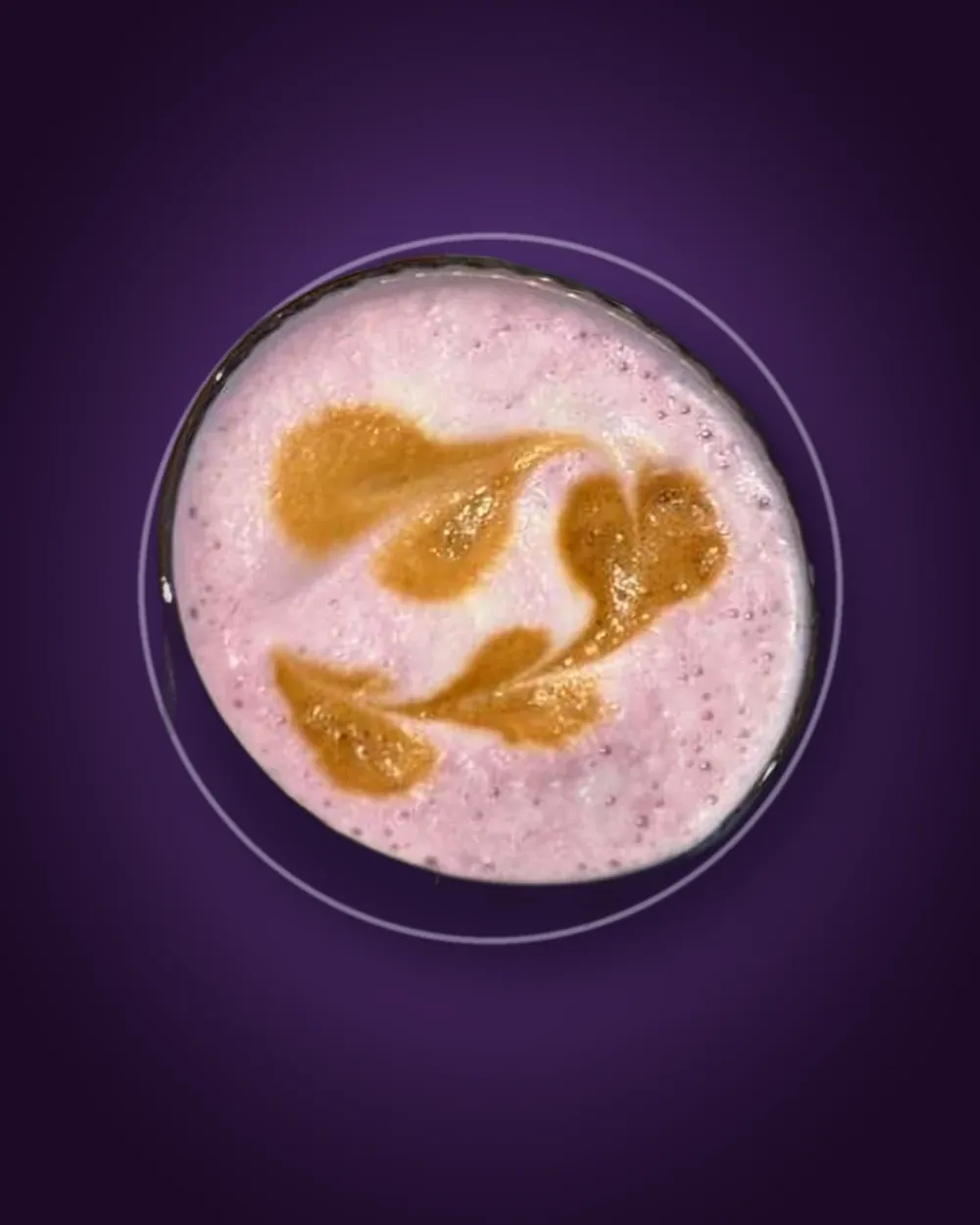
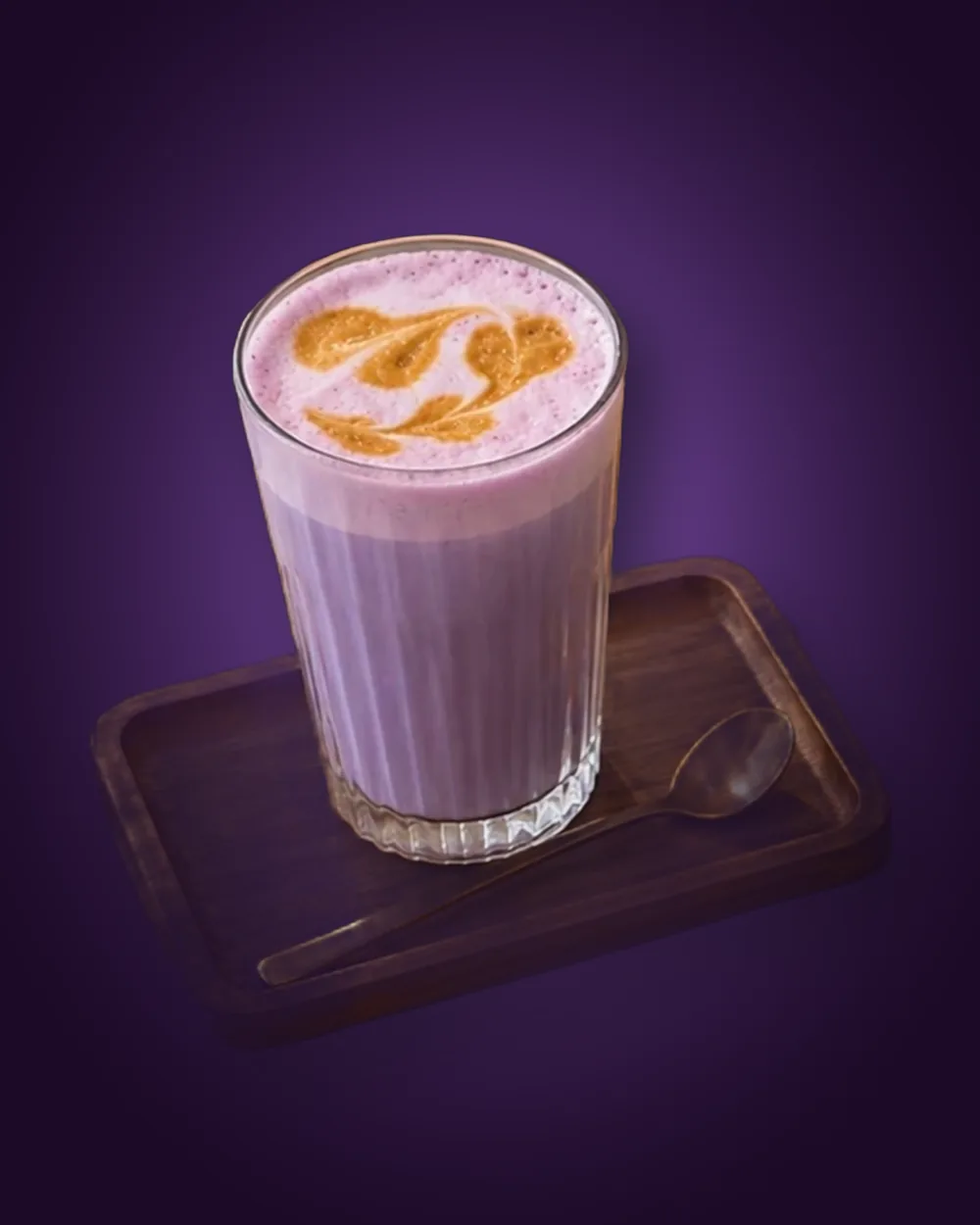
Ube als nyd-Highlight eingeleitet, Knolle und Latte als Bild, echte Erdbeeren, Brötchen, Scroll-Pfeil, Amazonas-Bild größer

diff --git a/nyd.html b/nyd.html
@@ -11,8 +11,8 @@
 <link rel="preload" href="assets/fonts/bricolage.woff2" as="font" type="font/woff2" crossorigin>
 <link rel="preload" href="assets/fonts/hanken.woff2" as="font" type="font/woff2" crossorigin>
 <link rel="preload" as="image" href="assets/img/nyd/hero-room-1800.webp" imagesrcset="assets/img/nyd/hero-room-900.webp 900w, assets/img/nyd/hero-room-1800.webp 1800w" imagesizes="100vw" fetchpriority="high">
-<link rel="stylesheet" href="css/base.css?v=20261119104114">
-<link rel="stylesheet" href="css/nyd.css?v=20261119104114">
+<link rel="stylesheet" href="css/base.css?v=20261119111254">
+<link rel="stylesheet" href="css/nyd.css?v=20261119111254">
 </head>
 <body data-world="nyd">
 <header class="wbar">
@@ -90,14 +90,14 @@
   <section class="ube" id="ube">
     <canvas id="fluid" aria-hidden="true"></canvas>
     <div class="ube-head">
-      <p class="kicker reveal">Das lila Highlight</p>
+      <p class="ube-pre reveal">Das Highlight im Café nyd ist lila. Es heißt:</p>
       <h2 class="split big"><span class="line">Ube.</span></h2>
-      <p class="ube-intro reveal">Sprich: „u-be“. Eine lila Knolle von den Philippinen und der Star auf unserer Karte. Woher kommt sie, warum ist sie so lila und wie schmeckt sie? In vier Schritten bis ins Glas.</p>
+      <p class="ube-intro reveal">Sprich: „u-be“. Daraus machen wir den Ube Vanille Latte, nach dem in Osnabrück alle fragen. Aber was ist Ube eigentlich? Eine lila Knolle von den Philippinen. In vier Schritten von der Erde bis ins Glas.</p>
     </div>
     <ol class="ube-steps">
-      <li class="ube-step reveal"><figure><img src="assets/img/ube/ube-pulver.webp" alt="Lila Ube-Pulver in Nahaufnahme" width="1000" height="1500" loading="lazy" decoding="async"><figcaption>Getrocknet und gemahlen: Ube-Pulver</figcaption></figure><div><span>01</span><h3>Eine Knolle.</h3><p>Ube ist die lila Yamswurzel, botanisch <i>Dioscorea alata</i>. Keine Süßkartoffel und kein Taro, sondern eine eigene Pflanze. Ihre Knolle wächst unter der Erde und ist innen tief violett.</p></div></li>
+      <li class="ube-step reveal"><figure><img class="knolle" src="assets/img/ube/ube-knolle.webp" alt="Lila Yamswurzel (Ube) in der Erde, mit lila Trieb" width="1100" height="947" loading="lazy" decoding="async"><figcaption>Ube-Knolle in der Erde, Mindanao (Philippinen)</figcaption></figure><div><span>01</span><h3>Eine Knolle.</h3><p>Ube ist die lila Yamswurzel, botanisch <i>Dioscorea alata</i>. Keine Süßkartoffel und kein Taro, sondern eine eigene Pflanze. Ihre Knolle wächst unter der Erde und ist innen tief violett.</p></div></li>
       <li class="ube-step reveal"><figure><img src="assets/img/ube/ube-eis.webp" alt="Lila Eis auf einem Löffel" width="1800" height="1200" loading="lazy" decoding="async"><figcaption>Lila Eis: so kennt man Ube auf den Philippinen</figcaption></figure><div><span>02</span><h3>Von den Philippinen.</h3><p>Ihre Heimat ist Südostasien, vor allem die Philippinen. Dort gehört Ube seit Generationen in Eis, Cremes und Gebäck. Von dort kam sie in die Cafés der Welt.</p></div></li>
-      <li class="ube-step reveal"><figure><img src="assets/img/ube/ube-latte.webp" alt="Ube Vanille Latte aus dem Café nyd, von oben" width="1000" height="1250" loading="lazy" decoding="async"><figcaption>Ube Vanille Latte im Café nyd</figcaption></figure><div><span>03</span><h3>Natürlich lila.</h3><p>Das Lila stammt von Anthocyanen. Das sind dieselben Pflanzenfarbstoffe wie in Heidelbeeren. Keine Farbe aus der Tube, sondern aus der Knolle selbst. Mit Milch aufgeschäumt wird daraus ein zartes Flieder.</p></div></li>
+      <li class="ube-step reveal"><figure><img src="assets/img/ube/ube-latte.webp" alt="Ube Vanille Latte aus dem Café nyd im Glas" width="1000" height="1250" loading="lazy" decoding="async"><figcaption>Ube Vanille Latte im Café nyd</figcaption></figure><div><span>03</span><h3>Natürlich lila.</h3><p>Das Lila stammt von Anthocyanen. Das sind dieselben Pflanzenfarbstoffe wie in Heidelbeeren. Keine Farbe aus der Tube, sondern aus der Knolle selbst. Mit Milch aufgeschäumt wird daraus ein zartes Flieder.</p></div></li>
       <li class="ube-step reveal"><figure><img src="assets/img/ube/ube-dessert.webp" alt="Pfannkuchen mit lila Creme und Nüssen" width="1000" height="1500" loading="lazy" decoding="async"><figcaption>Nussig und mild süß</figcaption></figure><div><span>04</span><h3>Nussig, ein bisschen Vanille.</h3><p>Ube schmeckt mild süß, nussig und erinnert an Vanille. Darum passt sie so gut zu Milch, Kaffee und Kuchen.</p></div></li>
     </ol>
     <div class="ube-star">
@@ -140,10 +140,10 @@
 
 <footer class="foot">
   <p><b>Inoffizieller Entwurf</b> von Leon Oßendorf für die Genussmanufaktur GmbH &amp; Co. KG. Nicht öffentlich, nicht von Suchmaschinen erfasst.</p>
-  <p>Fotos: Café nyd. Cappuccino im Sitzplatz-Foto eingesetzt (Bildmontage für den Entwurf). Ube-Bilder: Monaz Hastam, Alexander Grey, Eiliv Aceron (Unsplash, Beispielbilder). Holzmaserung: <a href="https://polyhaven.com/" target="_blank" rel="noopener">Poly Haven</a> (CC0). <a href="https://www.frooters.de/impressum/" target="_blank" rel="noopener">Impressum der Genussmanufaktur</a></p>
+  <p>Fotos: Café nyd. Cappuccino im Sitzplatz-Foto eingesetzt (Bildmontage für den Entwurf). Ube-Knolle: Obsidian Soul, <a href="https://commons.wikimedia.org/wiki/File:Dioscorea_alata_-_Purple_yam_tuber_-_Mindanao,_Philippines.jpg" target="_blank" rel="noopener">Wikimedia Commons</a>, <a href="https://creativecommons.org/licenses/by-sa/3.0/" target="_blank" rel="noopener">CC BY-SA 3.0</a>. Ube-Eis und Ube-Dessert: Alexander Grey, Eiliv Aceron (Unsplash, Beispielbilder). Holzmaserung: <a href="https://polyhaven.com/" target="_blank" rel="noopener">Poly Haven</a> (CC0). <a href="https://www.frooters.de/impressum/" target="_blank" rel="noopener">Impressum der Genussmanufaktur</a></p>
 </footer>
 <div class="flag">Inoffizieller Entwurf · nicht öffentlich</div>
-<script type="module" src="js/cafe.js?v=20261119104114"></script>
-<script>window.STAND="20261119104114";fetch("stand.txt?"+Date.now(),{cache:"no-store"}).then(r=>r.ok?r.text():null).then(s=>{s=s&&s.trim();if(s&&s!==window.STAND&&!sessionStorage.getItem("st"+s)){sessionStorage.setItem("st"+s,"1");location.reload();}}).catch(()=>{});</script>
+<script type="module" src="js/cafe.js?v=20261119111254"></script>
+<script>window.STAND="20261119111254";fetch("stand.txt?"+Date.now(),{cache:"no-store"}).then(r=>r.ok?r.text():null).then(s=>{s=s&&s.trim();if(s&&s!==window.STAND&&!sessionStorage.getItem("st"+s)){sessionStorage.setItem("st"+s,"1");location.reload();}}).catch(()=>{});</script>
 </body>
 </html>

diff --git a/js/fruit.js b/js/fruit.js
@@ -20,16 +20,42 @@ export function createFruitWorld(canvas, { mobile = false, rec = false, vertical
   const bodies = [], waiting = [];
   const rnd = (a, b) => a + Math.random() * (b - a);
   const P = (c, o = {}) => new THREE.MeshPhysicalMaterial({ color: c, roughness: o.r ?? .35, clearcoat: o.cc ?? .5, clearcoatRoughness: .3, sheen: o.sh ?? 0, sheenColor: new THREE.Color(o.shc ?? '#fff') });
+  // Erdbeere: Herzform, glänzend rot, zur Schulter hin heller, eingesunkene gelbe Nüsschen, grüner Kelch mit Blättern
+  const SB = (() => {
+    const N = 40, pts = [];
+    const R = t => .46 * Math.pow(Math.sin(Math.min(1, t * 1.08) * Math.PI * .5), .62) * (1 - .55 * Math.pow(Math.max(0, t - .86) / .14, 2));
+    for (let i = 0; i <= N; i++) { const t = i / N; pts.push(new THREE.Vector2(Math.max(.0005, R(t)), t * 1.02)); }
+    const geo = new THREE.LatheGeometry(pts, 40), pos = geo.attributes.position, col = [], c = new THREE.Color();
+    const red = new THREE.Color('#a80a18'), hi = new THREE.Color('#d8222a'), sh = new THREE.Color('#e45a3c');
+    const seedsAt = []; const NS = 70;
+    for (let i = 0; i < NS; i++) { const t = .07 + .8 * (i + .5) / NS, a = i * 2.39996; seedsAt.push([t, a]); }
+    for (let i = 0; i < pos.count; i++) {
+      const y = pos.getY(i), t = y / 1.02, x = pos.getX(i), z = pos.getZ(i), a = Math.atan2(z, x);
+      // Dellen um jedes Nüsschen
+      let dent = 0; for (const [st, sa] of seedsAt) { const dt = (t - st) * 6, da = Math.atan2(Math.sin(a - sa), Math.cos(a - sa)) * R(st) * 1.1; const d2 = (dt * dt + da * da * 36) ; if (d2 < .5) dent = Math.max(dent, 1 - d2 / .5); }
+      const r = Math.hypot(x, z), k = r > 1e-4 ? (r - dent * .018) / r : 1; pos.setX(i, x * k); pos.setZ(i, z * k);
+      c.copy(red).lerp(hi, Math.min(1, Math.max(0, (t - .5) / .35)) * .6); if (t > .9) c.lerp(sh, Math.min(1, (t - .9) / .1) * .45); c.multiplyScalar(1 - dent * .25); col.push(c.r, c.g, c.b);
+    }
+    geo.setAttribute('color', new THREE.Float32BufferAttribute(col, 3)); geo.computeVertexNormals();
+    const body = new THREE.MeshPhysicalMaterial({ vertexColors: true, roughness: .26, clearcoat: 1, clearcoatRoughness: .12, sheen: .2, sheenColor: new THREE.Color('#ff9a8a') });
+    const seedGeo = new THREE.SphereGeometry(1, 8, 6); seedGeo.scale(.013, .022, .013);
+    const seedMat = new THREE.MeshStandardMaterial({ color: '#c99a2e', roughness: .55 });
+    const leaf = new THREE.Shape(); leaf.moveTo(0, 0); leaf.quadraticCurveTo(.1, .16, 0, .38); leaf.quadraticCurveTo(-.1, .16, 0, 0);
+    const leafGeo = new THREE.ShapeGeometry(leaf, 6), leafMat = new THREE.MeshStandardMaterial({ color: '#2f7420', roughness: .6, side: THREE.DoubleSide });
+    return { geo, body, seedGeo, seedMat, seedsAt, R, leafGeo, leafMat };
+  })();
   const strawberry = () => {
-    const pts = []; for (let i = 0; i <= 16; i++) { const t = i / 16; pts.push(new THREE.Vector2(Math.sin(t * Math.PI) * (0.36 + .12 * (1 - t)), t * .9)); }
-    const g = new THREE.Group(); g.add(new THREE.Mesh(new THREE.LatheGeometry(pts, 28), P('#c80f28', { r: .28, cc: .7 })));
-    const seeds = new THREE.InstancedMesh(new THREE.SphereGeometry(.022, 6, 4), P('#f0cf55'), 50), m4 = new THREE.Matrix4();
-    for (let i = 0; i < 50; i++) { const t = .1 + Math.random() * .85, a = Math.random() * 6.28, rr = Math.sin(t * Math.PI) * (0.36 + .12 * (1 - t)); m4.setPosition(Math.cos(a) * rr, t * .9, Math.sin(a) * rr); seeds.setMatrixAt(i, m4); } g.add(seeds);
-    const leaf = new THREE.Mesh(new THREE.ConeGeometry(.34, .12, 8), P('#3d8a28', { r: .6, cc: 0 })); leaf.position.y = .92; g.add(leaf);
+    const g = new THREE.Group(); g.add(new THREE.Mesh(SB.geo, SB.body));
+    const seeds = new THREE.InstancedMesh(SB.seedGeo, SB.seedMat, SB.seedsAt.length), m4 = new THREE.Matrix4(), q = new THREE.Quaternion(), up = new THREE.Vector3(0, 1, 0), n = new THREE.Vector3(), one = new THREE.Vector3(1, 1, 1);
+    SB.seedsAt.forEach(([t, a], i) => { const r = SB.R(t) - .016, p = new THREE.Vector3(Math.cos(a) * r, t * 1.02, Math.sin(a) * r); n.set(Math.cos(a), .35, Math.sin(a)).normalize(); q.setFromUnitVectors(up, n); m4.compose(p, q, one); seeds.setMatrixAt(i, m4); });
+    g.add(seeds);
+    const cal = new THREE.Group(); cal.position.y = .99;
+    for (let i = 0; i < 10; i++) { const l = new THREE.Mesh(SB.leafGeo, SB.leafMat); const piv = new THREE.Group(); piv.rotation.y = i / 10 * Math.PI * 2 + Math.random() * .3; l.rotation.x = -Math.PI / 2 + .18 + Math.random() * .2; piv.add(l); cal.add(piv); }
+    const stem = new THREE.Mesh(new THREE.CylinderGeometry(.022, .03, .14, 6), SB.leafMat); stem.position.y = .07; cal.add(stem); g.add(cal);
     g.rotation.z = Math.PI / 2; const o = new THREE.Group(); o.add(g); return o;
   };
-  const blue = () => new THREE.Mesh(new THREE.SphereGeometry(.5, 20, 14), P('#2b3266', { r: .3, sh: .9, shc: '#c9d2ff' }));
-  const rasp = () => { const g = new THREE.Group(), geo = new THREE.SphereGeometry(.17, 10, 8), mat = P('#d4305a', { r: .25, cc: .6 }); for (let i = 0; i < 22; i++) { const a = i * 2.4, t = i / 22, rr = Math.sin(t * Math.PI * .9 + .2) * .4; const s = new THREE.Mesh(geo, mat); s.position.set(Math.cos(a) * rr, t * .8 - .4, Math.sin(a) * rr); g.add(s); } return g; };
+  const blue = () => new THREE.Mesh(new THREE.SphereGeometry(.5, 20, 14), P('#1c2148', { r: .42, cc: .25, sh: .45, shc: '#8f9bd8' }));
+  const rasp = () => { const g = new THREE.Group(), geo = new THREE.SphereGeometry(.17, 10, 8), mat = P('#c01f45', { r: .3, cc: .6 }); for (let i = 0; i < 22; i++) { const a = i * 2.4, t = i / 22, rr = Math.sin(t * Math.PI * .9 + .2) * .4; const s = new THREE.Mesh(geo, mat); s.position.set(Math.cos(a) * rr, t * .8 - .4, Math.sin(a) * rr); g.add(s); } return g; };
   // [Art, Durchmesser bei 1000 px Thekenbreite, Anzahl Computer, Anzahl Handy]
   const SET = { food_pomegranate_01: [112, 3, 2], food_apple_01: [100, 5, 3], food_pears_asian_01: [102, 3, 2], food_kiwi_01: [78, 5, 3], lemon: [88, 3, 2], food_lime_01: [74, 4, 2], food_lychee_01: [52, 5, 3], strawberry: [64, 9, 6], rasp: [40, 7, 4], blue: [27, 14, 8] };
 

diff --git a/picknick.html b/picknick.html
@@ -11,8 +11,8 @@
 <link rel="preload" href="assets/fonts/bricolage.woff2" as="font" type="font/woff2" crossorigin>
 <link rel="preload" href="assets/fonts/hanken.woff2" as="font" type="font/woff2" crossorigin>
 <link rel="preload" as="image" href="assets/img/pn-logo-hell.webp" fetchpriority="high">
-<link rel="stylesheet" href="css/base.css?v=20261119104114">
-<link rel="stylesheet" href="css/picknick.css?v=20261119104114">
+<link rel="stylesheet" href="css/base.css?v=20261119111254">
+<link rel="stylesheet" href="css/picknick.css?v=20261119111254">
 </head>
 <body data-world="picknick">
 <svg width="0" height="0" style="position:absolute" aria-hidden="true"><defs><filter id="boil"><feTurbulence id="turb" type="fractalNoise" baseFrequency="0.018" numOctaves="2" seed="1"/><feDisplacementMap in="SourceGraphic" scale="4"/></filter></defs></svg>
@@ -47,7 +47,7 @@
       <svg class="pick-scene" id="pickScene" viewBox="0 0 1000 700" aria-hidden="true">
         <g filter="url(#boil)" fill="none" stroke="#2c4a28" stroke-width="5" stroke-linecap="round" stroke-linejoin="round">
           <g class="pi" data-tx="140" data-ty="250"><g transform="translate(-100 -100)"><path fill="#fffdf6" d="M60 60 L140 60 L128 180 L72 180 Z"/><path fill="#c8102e" stroke="#2c4a28" d="M52 46 L148 46 L144 62 L56 62 Z"/><path d="M68 100 L132 100 M73 145 L127 145 M88 34 C82 20 96 14 90 0 M112 34 C106 20 120 14 114 0"/></g></g>
-          <g class="pi" data-tx="850" data-ty="270"><g transform="translate(-100 -100)"><path fill="#e9c08a" d="M30 132 L170 132 C170 152 160 158 100 158 C40 158 30 152 30 132 Z"/><path fill="#f5c84b" d="M26 122 L174 122 L172 132 L134 132 L126 146 L118 132 L64 132 L57 143 L50 132 L28 132 Z"/><path fill="#e0443b" d="M30 112 L170 112 L168 123 L32 123 Z"/><path fill="#8fc46a" d="M22 104 C38 94 50 114 66 104 C82 94 94 114 110 104 C126 94 138 114 154 104 C164 98 174 106 180 104 L176 114 L24 114 Z"/><path fill="#e9c08a" d="M30 100 C30 52 170 52 170 100 Z"/><path d="M64 72 l6 -4 M96 64 l6 -3 M128 70 l6 -4 M84 84 l6 -3 M114 82 l6 -4"/></g></g>
+          <g class="pi" data-tx="850" data-ty="270"><g transform="translate(-100 -100)"><path fill="#e6b06a" d="M8 132 L192 132 C190 150 172 158 100 158 C28 158 10 150 8 132 Z"/><path fill="#f2c84e" d="M14 124 L186 124 L184 133 L150 133 L142 146 L134 133 L70 133 L62 143 L54 133 L16 133 Z"/><path fill="#ee9a9a" d="M10 116 L190 116 L188 126 C160 134 40 134 12 126 Z"/><path fill="#8fc46a" d="M4 110 C16 101 26 118 40 109 C54 100 64 118 78 109 C92 100 102 118 116 109 C130 100 140 118 154 109 C168 100 178 116 196 108 L192 119 L8 119 Z"/><path fill="#e6b06a" d="M10 110 C12 76 52 62 100 62 C148 62 188 76 190 110 Z"/><path d="M48 84 C56 76 66 72 74 72 M88 76 C96 68 106 66 114 66 M128 78 C136 72 146 70 154 72"/></g></g>
           <g class="pi" data-tx="250" data-ty="480"><g transform="translate(-100 -100)"><path fill="#c98a4b" d="M100 168 C35 168 14 106 44 76 C70 50 100 70 100 102 C100 70 130 50 156 76 C186 106 165 168 100 168 Z"/><path d="M100 102 C92 132 72 152 56 152 M100 102 C108 132 128 152 144 152 M70 90 l2 2 M130 92 l2 2 M100 150 l2 2"/></g></g>
           <g class="pi" data-tx="930" data-ty="440"><g transform="translate(-100 -100)"><path fill="#f2c27a" d="M100 172 C40 132 20 102 30 72 C40 42 80 42 100 72 C120 42 160 42 170 72 C180 102 160 132 100 172 Z"/><path d="M58 62 L148 146 M42 88 L126 164 M84 50 L164 116 M144 62 L56 148 M160 88 L78 164 M118 50 L38 118"/></g></g>
           <g class="pi" data-tx="780" data-ty="640"><g transform="translate(-100 -100)"><path fill="#fff3d8" d="M28 152 L172 152 L172 112 L28 70 Z"/><path fill="#f1b5b9" d="M28 70 L172 112 L172 124 L28 84 Z"/><path d="M28 104 L172 140"/><circle cx="150" cy="96" r="10" fill="#c8102e"/></g></g>
@@ -60,6 +60,7 @@
         <p>Kaffee, belegte Brötchen, Laugengebäck, frische Waffeln, Kuchen und handgemachtes Eis. Genau das, was man beim Einkaufen braucht.</p>
         <ul class="pins"><li><b>Designer Outlet</b><span>Ochtrup</span></li><li><b>Modehaus Becker</b><span>Gifhorn</span></li></ul>
       </div>
+      <div class="scroll-cue" aria-hidden="true"><span>Scrollen</span><i></i><i></i></div>
       <img class="wanderer" id="wanderer" src="assets/img/pn-wanderer-gruen.webp" width="374" height="492" alt="" aria-hidden="true">
     </div>
   </section>
@@ -77,7 +78,7 @@
   <p>Pick-Nick-Logo aus einem Foto der Filiale freigestellt. Zeichnungen: eigener Entwurf. <a href="https://www.frooters.de/impressum/" target="_blank" rel="noopener">Impressum der Genussmanufaktur</a></p>
 </footer>
 <div class="flag">Inoffizieller Entwurf · nicht öffentlich</div>
-<script type="module" src="js/picknick.js?v=20261119104114"></script>
-<script>window.STAND="20261119104114";fetch("stand.txt?"+Date.now(),{cache:"no-store"}).then(r=>r.ok?r.text():null).then(s=>{s=s&&s.trim();if(s&&s!==window.STAND&&!sessionStorage.getItem("st"+s)){sessionStorage.setItem("st"+s,"1");location.reload();}}).catch(()=>{});</script>
+<script type="module" src="js/picknick.js?v=20261119111254"></script>
+<script>window.STAND="20261119111254";fetch("stand.txt?"+Date.now(),{cache:"no-store"}).then(r=>r.ok?r.text():null).then(s=>{s=s&&s.trim();if(s&&s!==window.STAND&&!sessionStorage.getItem("st"+s)){sessionStorage.setItem("st"+s,"1");location.reload();}}).catch(()=>{});</script>
 </body>
 </html>

diff --git a/bowlers.html b/bowlers.html
@@ -11,8 +11,8 @@
 <link rel="preload" href="assets/fonts/bricolage.woff2" as="font" type="font/woff2" crossorigin>
 <link rel="preload" href="assets/fonts/hanken.woff2" as="font" type="font/woff2" crossorigin>
 <link rel="preload" as="image" href="assets/img/bowlers/poster.webp" fetchpriority="high">
-<link rel="stylesheet" href="css/base.css?v=20261119104114">
-<link rel="stylesheet" href="css/bowlers.css?v=20261119104114">
+<link rel="stylesheet" href="css/base.css?v=20261119111254">
+<link rel="stylesheet" href="css/bowlers.css?v=20261119111254">
 <script type="importmap">{ "imports": { "three": "./assets/vendor/three.module.min.js", "three/addons/": "./assets/vendor/addons/" } }</script>
 <link rel="modulepreload" href="assets/vendor/three.module.min.js">
 </head>
@@ -90,7 +90,7 @@
   <p>Regenwald als Rundumbild: <a href="https://polyhaven.com/a/rainforest_trail" target="_blank" rel="noopener">Poly Haven</a> (CC0). Açaí-Bilder: Kawê Rodrigues, Fluss: Rohit Tandon (Unsplash, Beispielbilder). Bowl: Foto aus dem Café nyd. <a href="https://www.frooters.de/impressum/" target="_blank" rel="noopener">Impressum der Genussmanufaktur</a></p>
 </footer>
 <div class="flag">Inoffizieller Entwurf · nicht öffentlich</div>
-<script type="module" src="js/bowlers.js?v=20261119104114"></script>
-<script>window.STAND="20261119104114";fetch("stand.txt?"+Date.now(),{cache:"no-store"}).then(r=>r.ok?r.text():null).then(s=>{s=s&&s.trim();if(s&&s!==window.STAND&&!sessionStorage.getItem("st"+s)){sessionStorage.setItem("st"+s,"1");location.reload();}}).catch(()=>{});</script>
+<script type="module" src="js/bowlers.js?v=20261119111254"></script>
+<script>window.STAND="20261119111254";fetch("stand.txt?"+Date.now(),{cache:"no-store"}).then(r=>r.ok?r.text():null).then(s=>{s=s&&s.trim();if(s&&s!==window.STAND&&!sessionStorage.getItem("st"+s)){sessionStorage.setItem("st"+s,"1");location.reload();}}).catch(()=>{});</script>
 </body>
 </html>

diff --git a/frooters.html b/frooters.html
@@ -11,8 +11,8 @@
 <link rel="preload" href="assets/fonts/bricolage.woff2" as="font" type="font/woff2" crossorigin>
 <link rel="preload" href="assets/fonts/hanken.woff2" as="font" type="font/woff2" crossorigin>
 <link rel="preload" href="assets/img/frooters/theke/schiefer-band.webp" as="image">
-<link rel="stylesheet" href="css/base.css?v=20261119104114">
-<link rel="stylesheet" href="css/frooters.css?v=20261119104114">
+<link rel="stylesheet" href="css/base.css?v=20261119111254">
+<link rel="stylesheet" href="css/frooters.css?v=20261119111254">
 <script type="importmap">{ "imports": { "three": "./assets/vendor/three.module.min.js", "three/addons/": "./assets/vendor/addons/" } }</script>
 <link rel="modulepreload" href="assets/vendor/three.module.min.js">
 </head>
@@ -115,7 +115,7 @@
   <p>Fotos und Logo: Frooters (frooters.de). Bubble Waffle aus einem Frooters-Foto freigestellt. Obst in 3D: <a href="https://polyhaven.com/" target="_blank" rel="noopener">Poly Haven</a> (CC0). <a href="https://www.frooters.de/impressum/" target="_blank" rel="noopener">Impressum der Genussmanufaktur</a></p>
 </footer>
 <div class="flag">Inoffizieller Entwurf · nicht öffentlich</div>
-<script type="module" src="js/frooters.js?v=20261119104114"></script>
-<script>window.STAND="20261119104114";fetch("stand.txt?"+Date.now(),{cache:"no-store"}).then(r=>r.ok?r.text():null).then(s=>{s=s&&s.trim();if(s&&s!==window.STAND&&!sessionStorage.getItem("st"+s)){sessionStorage.setItem("st"+s,"1");location.reload();}}).catch(()=>{});</script>
+<script type="module" src="js/frooters.js?v=20261119111254"></script>
+<script>window.STAND="20261119111254";fetch("stand.txt?"+Date.now(),{cache:"no-store"}).then(r=>r.ok?r.text():null).then(s=>{s=s&&s.trim();if(s&&s!==window.STAND&&!sessionStorage.getItem("st"+s)){sessionStorage.setItem("st"+s,"1");location.reload();}}).catch(()=>{});</script>
 </body>
 </html>

diff --git a/index.html b/index.html
@@ -10,8 +10,8 @@
 <link rel="icon" href="favicon.svg" type="image/svg+xml">
 <link rel="preload" href="assets/fonts/bricolage.woff2" as="font" type="font/woff2" crossorigin>
 <link rel="preload" href="assets/fonts/hanken.woff2" as="font" type="font/woff2" crossorigin>
-<link rel="stylesheet" href="css/base.css?v=20261119104114">
-<link rel="stylesheet" href="css/home.css?v=20261119104114">
+<link rel="stylesheet" href="css/base.css?v=20261119111254">
+<link rel="stylesheet" href="css/home.css?v=20261119111254">
 </head>
 <body data-world="haus">
 <div id="cur" aria-hidden="true"><span>Eintreten</span></div>
@@ -118,7 +118,7 @@
   <p>Fotos: Frooters und Café nyd. Pick-Nick-Logo aus einem Foto der Filiale freigestellt. Regenwald-Rundumbild und Obstmodelle: <a href="https://polyhaven.com/" target="_blank" rel="noopener">Poly Haven</a> (CC0). <a href="https://www.frooters.de/impressum/" target="_blank" rel="noopener">Impressum der Genussmanufaktur</a></p>
 </footer>
 <div class="flag">Inoffizieller Entwurf · nicht öffentlich</div>
-<script type="module" src="js/home.js?v=20261119104114"></script>
-<script>window.STAND="20261119104114";fetch("stand.txt?"+Date.now(),{cache:"no-store"}).then(r=>r.ok?r.text():null).then(s=>{s=s&&s.trim();if(s&&s!==window.STAND&&!sessionStorage.getItem("st"+s)){sessionStorage.setItem("st"+s,"1");location.reload();}}).catch(()=>{});</script>
+<script type="module" src="js/home.js?v=20261119111254"></script>
+<script>window.STAND="20261119111254";fetch("stand.txt?"+Date.now(),{cache:"no-store"}).then(r=>r.ok?r.text():null).then(s=>{s=s&&s.trim();if(s&&s!==window.STAND&&!sessionStorage.getItem("st"+s)){sessionStorage.setItem("st"+s,"1");location.reload();}}).catch(()=>{});</script>
 </body>
 </html>

diff --git a/js/frooters.js b/js/frooters.js
@@ -1,6 +1,6 @@
 // Frooters: die Theke entlang, Obst zum Anschubsen, Produkte zum Antippen, Smoothies mit Farbe
-import { $, $$, REC, reduced, mobile, clamp, prog, vis, start, run, onTick, lockScroll, scrollToY, lenis } from './common.js?v=20261119104114';
-import { createFruitWorld } from './fruit.js?v=20261119104114';
+import { $, $$, REC, reduced, mobile, clamp, prog, vis, start, run, onTick, lockScroll, scrollToY, lenis } from './common.js?v=20261119111254';
+import { createFruitWorld } from './fruit.js?v=20261119111254';
 
 start();
 const vertical = matchMedia('(max-width: 900px)').matches;
@@ -101,7 +101,7 @@ onTick(dt => {
 // Frisch gemixt: Farbe steigt nur auf, wenn man einen Becher anstößt oder die Maus bewegt
 const mix = $('#mix'), fluidCanvas = $('#fluid'), lead = $('#mixLead');
 let fluid = null, fluidWanted = false;
-new IntersectionObserver(([e], io) => { if (!e.isIntersecting) return; io.disconnect(); fluidWanted = true; import('./fluid.js?v=20261119104114').then(m => { fluid = m.createFluid(fluidCanvas, { rec: REC, mobile, reduced, theme: 'night', warm: false }); if (!fluid) fluidCanvas.remove(); }); }, { rootMargin: '120% 0px' }).observe(mix);
+new IntersectionObserver(([e], io) => { if (!e.isIntersecting) return; io.disconnect(); fluidWanted = true; import('./fluid.js?v=20261119111254').then(m => { fluid = m.createFluid(fluidCanvas, { rec: REC, mobile, reduced, theme: 'night', warm: false }); if (!fluid) fluidCanvas.remove(); }); }, { rootMargin: '120% 0px' }).observe(mix);
 $$('.cup').forEach(c => {
   const rgb = c.dataset.c.split(',').map(Number);
   const fire = () => {

diff --git a/partner.html b/partner.html
@@ -8,8 +8,8 @@
 <meta name="description" content="Inoffizieller Entwurf: Flächen, Modehäuser, Lieferanten, Presse, Jobs und Kontakt bei der Genussmanufaktur aus Ochtrup.">
 <link rel="icon" href="favicon.svg" type="image/svg+xml">
 <style>@view-transition{navigation:auto}</style>
-<link rel="stylesheet" href="css/style.css?v=20261119104114">
-<link rel="stylesheet" href="css/partner.css?v=20261119104114">
+<link rel="stylesheet" href="css/style.css?v=20261119111254">
+<link rel="stylesheet" href="css/partner.css?v=20261119111254">
 </head>
 <body class="pp">
 <header class="nav bar" id="nav">
@@ -165,7 +165,7 @@
   <p><b>Inoffizieller Entwurf</b> von Leon Oßendorf für die Genussmanufaktur GmbH &amp; Co. KG. Nicht öffentlich. <a href="https://www.frooters.de/impressum/" target="_blank" rel="noopener">Impressum der Genussmanufaktur</a></p>
 </footer>
 <div class="flag">Inoffizieller Entwurf · nicht öffentlich</div>
-<script src="js/partner.js?v=20261119104114"></script>
-<script>window.STAND="20261119104114";fetch("stand.txt?"+Date.now(),{cache:"no-store"}).then(r=>r.ok?r.text():null).then(s=>{s=s&&s.trim();if(s&&s!==window.STAND&&!sessionStorage.getItem("st"+s)){sessionStorage.setItem("st"+s,"1");location.reload();}}).catch(()=>{});</script>
+<script src="js/partner.js?v=20261119111254"></script>
+<script>window.STAND="20261119111254";fetch("stand.txt?"+Date.now(),{cache:"no-store"}).then(r=>r.ok?r.text():null).then(s=>{s=s&&s.trim();if(s&&s!==window.STAND&&!sessionStorage.getItem("st"+s)){sessionStorage.setItem("st"+s,"1");location.reload();}}).catch(()=>{});</script>
 </body>
 </html>

diff --git a/loaves.html b/loaves.html
@@ -10,8 +10,8 @@
 <link rel="icon" href="favicon.svg" type="image/svg+xml">
 <link rel="preload" href="assets/fonts/bricolage.woff2" as="font" type="font/woff2" crossorigin>
 <link rel="preload" href="assets/fonts/hanken.woff2" as="font" type="font/woff2" crossorigin>
-<link rel="stylesheet" href="css/base.css?v=20261119104114">
-<link rel="stylesheet" href="css/loaves.css?v=20261119104114">
+<link rel="stylesheet" href="css/base.css?v=20261119111254">
+<link rel="stylesheet" href="css/loaves.css?v=20261119111254">
 </head>
 <body data-world="loaves">
 <header class="wbar">
@@ -45,7 +45,7 @@
   <p>Loaves Bakery: Name und Vorhaben laut Genussmanufaktur, Gestaltung eigener Entwurf. <a href="https://www.frooters.de/impressum/" target="_blank" rel="noopener">Impressum der Genussmanufaktur</a></p>
 </footer>
 <div class="flag">Inoffizieller Entwurf · nicht öffentlich</div>
-<script type="module" src="js/loaves.js?v=20261119104114"></script>
-<script>window.STAND="20261119104114";fetch("stand.txt?"+Date.now(),{cache:"no-store"}).then(r=>r.ok?r.text():null).then(s=>{s=s&&s.trim();if(s&&s!==window.STAND&&!sessionStorage.getItem("st"+s)){sessionStorage.setItem("st"+s,"1");location.reload();}}).catch(()=>{});</script>
+<script type="module" src="js/loaves.js?v=20261119111254"></script>
+<script>window.STAND="20261119111254";fetch("stand.txt?"+Date.now(),{cache:"no-store"}).then(r=>r.ok?r.text():null).then(s=>{s=s&&s.trim();if(s&&s!==window.STAND&&!sessionStorage.getItem("st"+s)){sessionStorage.setItem("st"+s,"1");location.reload();}}).catch(()=>{});</script>
 </body>
 </html>

diff --git a/js/cafe.js b/js/cafe.js
@@ -1,5 +1,5 @@
 // Café nyd: der Tisch wird beim Scrollen gedeckt, der Rundgang zieht seitlich vorbei, Ube mit lila Farbeffekt
-import { $, $$, REC, reduced, mobile, clamp, range, ease, prog, vis, start, run, onTick } from './common.js?v=20261119104114';
+import { $, $$, REC, reduced, mobile, clamp, range, ease, prog, vis, start, run, onTick } from './common.js?v=20261119111254';
 
 start();
 const vertical = matchMedia('(max-width: 900px)').matches;
@@ -21,7 +21,7 @@ layout(); addEventListener('resize', () => { if (matchMedia('(max-width: 900px)'
 // Ube: lila Farbe nur, wenn man die Maus bewegt
 const ube = $('#ube'), fluidCanvas = $('#fluid');
 let fluid = null;
-new IntersectionObserver(([e], io) => { if (!e.isIntersecting) return; io.disconnect(); import('./fluid.js?v=20261119104114').then(m => { fluid = m.createFluid(fluidCanvas, { rec: REC, mobile, reduced, theme: 'ube', warm: false }); if (!fluid) fluidCanvas.remove(); }); }, { rootMargin: '120% 0px' }).observe(ube);
+new IntersectionObserver(([e], io) => { if (!e.isIntersecting) return; io.disconnect(); import('./fluid.js?v=20261119111254').then(m => { fluid = m.createFluid(fluidCanvas, { rec: REC, mobile, reduced, theme: 'ube', warm: false }); if (!fluid) fluidCanvas.remove(); }); }, { rootMargin: '120% 0px' }).observe(ube);
 
 let lastDone = -1;
 onTick(dt => {

diff --git a/css/picknick.css b/css/picknick.css
@@ -37,3 +37,10 @@ body{--bg:#e9efd9;--fg:#2c4a28}
   .pick.done .pick-final{transform:none}
   .wanderer{bottom:22vh;width:70px}
 }
+.scroll-cue{position:absolute;left:50%;bottom:3.5vh;z-index:4;display:flex;flex-direction:column;align-items:center;gap:2px;transform:translateX(-50%);color:var(--pickink);font:700 12px "Hank";letter-spacing:.2em;text-transform:uppercase;transition:opacity .5s;pointer-events:none}
+.scroll-cue span{margin-bottom:6px}
+.scroll-cue i{width:22px;height:22px;border-right:3px solid currentColor;border-bottom:3px solid currentColor;transform:rotate(45deg);animation:cue 1.6s ease-in-out infinite;opacity:0}
+.scroll-cue i:nth-of-type(2){animation-delay:.25s;margin-top:-10px}
+@keyframes cue{0%{opacity:0;translate:0 -8px}40%{opacity:1}80%,100%{opacity:0;translate:0 10px}}
+.pick.go .scroll-cue{opacity:0}
+@media (max-width:900px){.scroll-cue{bottom:calc(5vh + 118px)}}

diff --git a/js/bowlers.js b/js/bowlers.js
@@ -2,7 +2,7 @@
 // Beim Scrollen: Blick in die Krone, Ernte (Beeren fallen), eine Beere ganz groß, dann die Bowl.
 import * as THREE from 'three';
 import { mergeGeometries } from 'three/addons/utils/BufferGeometryUtils.js';
-import { $, $$, REC, reduced, mobile, clamp, range, ease, prog, vis, start, run, onTick, scrollToY } from './common.js?v=20261119104114';
+import { $, $$, REC, reduced, mobile, clamp, range, ease, prog, vis, start, run, onTick, scrollToY } from './common.js?v=20261119111254';
 
 start();
 const reise = $('#reise'), canvas = $('#wald');
